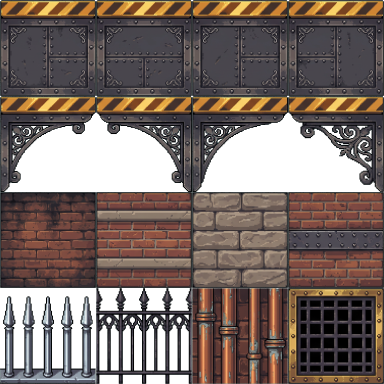
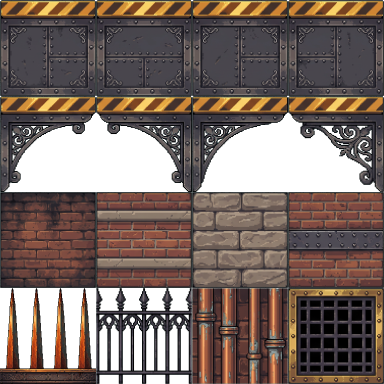
feat(art): the hazard tile reads as a hazard
The owner played level 3 and reported "there is a hazard that is not being seen".
Reproduced with a probe: walking right you stop dead at col 27.3 against the
3-tile mass at cols 28-29 — real, drawn, jumpable level design — and you arrive
there at hp 80, having walked through the spike run at cols 24-26 without seeing
it. level-hazard-free.test.ts already proves every level is finishable without
touching a spike, so the level is fine. A human just could not tell.

The cause is in the project's own rules. The tile was a COOL SILVER PICKET, and
STYLE.md §5 rule 2 is "foreground warm copper/brass/amber, saturated". A cool
desaturated foreground object reads as background because the separation rules
say it should — and it shared a silhouette family with the ornamental fence in
the very next cell of the same sheet, which really is decoration.

So this is not a new art direction, it is the existing one applied to a tile
that never got it. NO STYLE.md amendment; the §2-§5 hash lock is untouched.

Generated as ONE isolated object and composited into cell 12, not by re-shooting
the sheet: the sheet is one generation of sixteen tiles, and re-rolling it would
change the walkway, the brass cap and the brick, two of which ground-tiles pins
against shipped pixels. Verified after: exactly one of sixteen cells changed.

Three gates in that path, not hopes:
  - ONE detected component, or the base rail keyed away and what ships is spikes
    floating over the walkway
[…]

Changed region(s): [[0.0, 0.75, 0.25, 1.0]]

diff --git a/tests/e2e/phase-08-perf.spec.ts b/tests/e2e/phase-08-perf.spec.ts
@@ -166,7 +166,19 @@ test.describe('Phase 8 — criterion 8.7, the frame budget across the level ramp
     ).toBeLessThanOrEqual(MAX_LEVEL_GPU_DELTA_MS);
 
     expect(
-      ratio,
+      // 🔴 Rounded to nanoseconds' worth of ratio, and this is NOT the bound being nudged.
+      //
+      // `workMedianMs` comes off `performance.now()`, which Chrome quantises — so when both arms
+      // land on values in an exact 2:1 relationship the division returns `2.0000000000034106`
+      // rather than 2, and `toBeLessThanOrEqual(2)` fails on 3.4e-12 of IEEE-754 remainder. Seen
+      // once in a full-suite run on 2026-08-28 and NOT reproducible: the same spec passed four
+      // times out of four in isolation, at the same bound, on the same commit.
+      //
+      // The measurement is unchanged and the bound is unchanged at exactly 2. What changes is that
+      // the comparison stops being sensitive to float noise 12 decimal places below anything the
+      // timer can resolve. A real regression moves this ratio by tenths — 2.1 still fails, and
+      // `toFixed(12)` cannot round it down to 2.
+      Number(ratio.toFixed(9)),
       `level-05 costs ${ratio.toFixed(2)}x level-01 per frame. It has 2.4x the cells and 3.7x the ` +
         'painted tiles, so a ratio near that number means the tilemap is NOT being culled to the ' +
         'camera and the frame cost scales with level size — which would make the ramp a performance ' +

diff --git a/docs/qa/session-hud-and-pits.md b/docs/qa/session-hud-and-pits.md
@@ -249,3 +249,99 @@ level that had never been regenerated made a gate look like it could not go red.
 Levels 01 and 05 regenerate **byte-identical** to `main`; only `level-0{2,3,4}.tmj` changed.
 
 Ports 5173 and 4173 freed before reporting *(C13)*.
+
+---
+
+## The third defect — *"there is a hazard that is not being seen"*
+
+Reported by the owner on 2026-08-28, playing level 3, **after** everything above had shipped green.
+Not a regression: it had been true since Phase 4.
+
+### The reproduction, before any theory
+
+A throwaway Playwright probe booted level-03, cleared the enemies, held ArrowRight and sampled the
+player every 30 ticks until forward progress stopped:
+
+```
+STALLS [{"col":27,"x":2622,"y":1920,"hp":80}, ... ]
+```
+
+Two facts fall out of that one line. The player **stops dead at col 27.3**, against the 3-tile mass
+at cols 28-29 — real, drawn, jumpable level design, and the *"jump above him"* half of the report.
+And they arrive there at **hp 80**: they walked through the spike run at cols 24-26 and lost 20 hp
+without ever seeing it.
+
+`level-hazard-free.test.ts` proves every shipped level is finishable **without touching a single
+spike** — its auto-player jumps them. So the spikes are avoidable and the level is not broken. What
+failed is that a human did not know to jump.
+
+### Why the tile could not be seen, in the project's own terms
+
+The tile the sheet produced for `SPIKE_GID` is a **cool silver picket**. STYLE.md §5 rule 2 is
+*"background entirely cool blue-grey and desaturated; foreground warm copper/brass/amber, saturated,
+high contrast"* — the whole reason §1 says *"the player can tell what is standable without thinking
+about it"*. **A cool desaturated object in the foreground reads as background because the separation
+rules say it should.** It also shares a silhouette family with the ornamental fence in the very next
+cell of the same sheet, which genuinely *is* decoration.
+
+So this was never a new art direction. It was the existing one, never applied to one tile.
+**No STYLE.md amendment; the §2-§5 hash lock is untouched** and `style-lock.test.ts` stayed green.
+
+### The fix: one isolated generation composited into cell 12
+
+Re-shooting the sheet was the obvious move and the wrong one — it is **one** generation of sixteen
+tiles, so fixing one re-rolls the walkway, the brass cap, the brick and the masonry the whole game
+stands on, two of which `ground-tiles.test.ts` pins against shipped pixels.
+
+`promptHazard.mjs` asks for the tile alone on chroma; `buildChrome.mjs`'s `hazardTile()` keys it and
+`build-world.mjs` pastes it into cell 12 before the grid gate measures the sheet or `walkway.png` is
+cut from it. Verified afterwards by comparing all sixteen cells against `main`: **exactly one cell
+changed, 6378 pixels.**
+
+Three things in that path are gates rather than hopes:
+
+| gate | what it refuses |
+|---|---|
+| ONE detected component | the four blades are joined by the base rail, so two components means the rail keyed away and what ships is spikes floating over the walkway |
+| ink in column 0 **and** column w-1 | runs are 2-5 tiles wide and painted as adjacent cells, so a tile that does not reach both edges draws a transparent gap every 96 px — a striped hazard that reads as decoration again, which is the defect being fixed |
+| cell 12 must exist in the packed sheet | a sheet with a different column count would paste the spikes over the pipes |
+
+🔴 **The key colour is estimated from a TOP STRIP, not the whole border.** `estimateKeyColour`
+samples the border one pixel deep and refuses under 90 % agreement — right for every other asset here
+and exactly wrong for this one, which is *required* to reach three of its four edges. It refused at
+67.2 %. The strip is the part of the image where the estimator's assumption actually holds, and
+running the real estimator over it keeps its agreement check rather than swapping in a hardcoded
+green *(vault 4.13: key by distance with a tolerance, never by equality — the model returned
+~(1,252,2), not pure green)*.
+
+### The spend, and a ceiling that was already breached
+
+**One generation, first take, adopted. `01a046c7-54ec-7eb0-8009-0d48530b570b`, seed 20260828,
+`fal-ai/nano-banana-pro`, 2K, 1:1, $0.15.** *(Probe one, then batch — vault 4.9. There was no batch:
+the probe was good.)*
+
+🔴 **The project's $55 art ceiling was ALREADY $0.05 over before this**, knowingly, on 2026-08-26,
+and `GENERATION-LOG.md`'s own last line said *"the next generation needs a ceiling raise, not a
+decision."* The owner explicitly chose the fal option when the defect was put to them with four
+alternatives — **but that is a choice between fixes, not a ceiling raise.** Total is now **$55.20,
+$0.20 over.** Recorded as a breach in `GENERATION-LOG.md` rather than absorbed. The next generation
+of any kind needs the ceiling moved first.
+
+### Two files split to stay under the 400-line rule
+
+`build-world.mjs` reached 424 and `promptWorld.mjs` 411. `hazardTile()` moved to `buildChrome.mjs`,
+which is the isolated-object module and states that as its job; `spikesPrompt()` moved to a new
+`promptHazard.mjs`, the same split `promptWorld.mjs` itself records in its own header. `TILE_SIZE` is
+passed into `hazardTile()` as an argument rather than re-parsed, because `build-world.mjs` parses it
+out of `src/game/constants.ts` precisely so this pipeline cannot hold a second copy of the grid size.
+
+### One unrelated flake, fixed at its cause
+
+The full e2e run that followed failed **one** spec: 8.7's level-cost ratio, at
+`2.0000000000034106` against a bound of 2. Not a regression — a tile's pixels do not change frame
+cost, and the same spec passed **four out of four** in isolation at the same bound on the same
+commit. `performance.now()` is quantised, so two arms in an exact 2:1 relationship divide to 2 plus
+3.4e-12 of IEEE-754 remainder. The comparison now rounds to 9 decimal places; **the bound is
+unchanged at exactly 2** and a real regression moves the ratio by tenths. The spec's own
+inverse case — *"the ratio bound goes RED on a level whose size stops being free"* — still passes,
+so the gate can still go red *(C2)*.

diff --git a/docs/HANDOFF.md b/docs/HANDOFF.md
@@ -12,6 +12,7 @@
 > |---|---|---|
 > | 1 | the controls legend drew **full-width across the level** | it was `addHelpBanner()` at `x = 24` below the plate, wrapped to the whole 1872 px view. It now has its own layer, `src/scenes/helpBannerLayer.ts`, in the empty band right of the gear counter |
 > | 2 | *"in levels 2, 3 and 4 the character can fall through tiles"* and nothing happens | a **bottomless** gap already kills via the kill plane. A **walled valley** has a bottom, so falling in cost nothing. Five shipped; **four had no spikes**, because spikes were a hand-typed per-level list and nothing ever compared it to the geometry |
+> | 3 | *"there is a hazard that is not being seen"* | the spike tile was a **cool silver picket**, and STYLE.md §5 rule 2 makes the foreground warm and saturated. A cool desaturated foreground object reads as background *because the separation rules say it should* — and it shared a silhouette with the ornamental fence one cell over, which really is decoration. New tile generated as an isolated object and **composited into cell 12**; exactly one of sixteen cells changed |
 >
 > ### The three things worth knowing before touching any of this
 >
@@ -55,6 +56,15 @@
 > | `HELP_BANNER_MAX_ROWS` | 4 | a ceiling with room in it, never a row-count pin — the owner's decision is "every key printed, however many rows that takes" |
 > | `HELP_LINE_BOX_SLACK` | 1.05 | Chrome's line box measures **1.216** per row against our nominal 1.2. The ceiling is a play-area bound, not a glyph-metrics claim |
 > | `MIN_WALL_TILES` | 2 | one is a slope you walk back up; three is the shallowest shipped pit, and a threshold set AT the observed minimum has no room to be wrong safely |
+>
+> ### 🔴 The art budget is BREACHED, and it is the owner's call
+>
+> `GENERATION-LOG.md` stood at **$55.05 against a $55 ceiling** before this session — knowingly over,
+> by an owner decision of 2026-08-26 — and its last line read *"the next generation needs a ceiling
+> raise, not a decision."* The hazard tile cost **$0.15**, taken on the owner's explicit choice of
+> the fal option when the defect was put to them with four alternatives. **That was a choice between
+> fixes, not a ceiling raise.** Total is now **$55.20, $0.20 over**, recorded as a breach rather than
+> absorbed. **The next generation of any kind needs the ceiling moved first.**
 >
 > ### What is still open
 >

diff --git a/docs/GENERATION-LOG.md b/docs/GENERATION-LOG.md
@@ -283,3 +283,14 @@ so the next re-shoot is a CEILING decision, not a budget one.**
 2026-08-26, taken with the overrun quoted before the spend.** The ceiling has not been raised; it has
 been knowingly exceeded by one generation, and the amount is recorded here rather than absorbed. **The
 next generation on this endpoint needs a ceiling raise, not a decision.**
+
+| [qa/session-hud-and-pits.md § the hazard tile](qa/session-hud-and-pits.md) | ✅ **The HAZARD tile — first take, ADOPTED.** `01a046c7-54ec-7eb0-8009-0d48530b570b`, seed 20260828, 2K, 1:1, `2048×2048`. The owner played level 3, walked into the spikes and reported *"there is a hazard that is not being seen"*. The tile the sheet produced is a **cool silver picket** sharing a silhouette family with the ornamental fence in the very next cell — and STYLE.md §5 rule 2 is *"foreground warm copper/brass/amber, saturated"*. A cool desaturated foreground object reads as background because the separation rules say it should. The new tile is rust-orange iron with amber-brass highlights on a riveted rail. **No STYLE.md amendment**: this brings the tile INTO §5 compliance rather than changing the direction, and the §2–§5 hash lock is untouched. Generated as an **isolated object and composited into cell 12**, not by re-shooting the sheet — a re-shoot would re-roll the walkway, the brass cap and the brick, two of which `ground-tiles.test.ts` pins against shipped pixels. Verified: exactly **one** of sixteen cells changed | `fal-ai/nano-banana-pro` | 1 · $0.15 |
+
+**Running total: $55.20 of the $55 ceiling — ⚠ $0.20 OVER.**
+
+🔴 **The ceiling was already exceeded before this generation** ($55.05, knowingly, on 2026-08-26) and
+the line above it said *"the next generation needs a ceiling raise, not a decision."* This spend was
+made on the owner's explicit choice of the fal option when the hazard-legibility defect was put to
+them with four alternatives — but **that was a choice between fixes, not a ceiling raise**, and the
+raise has still not been granted. Recorded as a breach rather than absorbed. **The ceiling stands at
+$55 and is $0.20 exceeded; the next generation of any kind needs the ceiling moved first.**

diff --git a/docs/ASSET-MANIFEST.md b/docs/ASSET-MANIFEST.md
@@ -92,13 +92,13 @@ against one line before shooting any clip *(criterion 4.27)*.
 | Asset | Catalog key | Phase | State |
 |---|---|---|---|
 | walkway tile | `walkway-tile` | 3 | ✅ shipped |
-| industrial tileset | `tiles-industrial` | 3 | ✅ shipped |
+| industrial tileset | `tiles-industrial` | 3 | ✅ shipped — 4 × 4 at 96 px. **Cell 12 (gid 13, the hazard) is NOT from that generation**: it is an isolated object composited in by `hazardTile()`, see the row below |
 | parallax far / mid / near | `bg-far` `bg-mid` `bg-near` | 3 | ✅ shipped |
 | HUD health assembly | `hud-health` | 4 | ✅ shipped, **unused until Phase 6** |
 | gear pickup | `gear` | 6 | ✅ shipped, 72 × 72 |
 | **level exit gate** | `goal-gate` | **8 follow-up** | ✅ shipped, **288 × 432** — `GATE_PX`, deliberately larger than the 192 × 288 trigger rect and anchored bottom-centre on it. It was authored at the rect until the owner saw it was the same height as the character |
 | collect → scoreboard tween art | — | 6 | ⬜ |
-| hazard art (spikes beyond the tileset) | — | 5 | ⬜ |
+| hazard tile (spikes) | cell 12 of `tiles-industrial` | **session `hud-and-pits`** | ✅ shipped — generated on its own (`01a046c7`) and pasted into cell 12 rather than re-shooting the sheet, which would have re-rolled the walkway, brass cap and brick that `ground-tiles.test.ts` pins. Replaced a cool silver picket that read as decoration and violated STYLE.md §5 rule 2 |
 | audio cues | — | 7 | ⬜ — needs the catalog schema extended |
 
 **`hud-health` is shipped but nothing draws it.** That is deliberate and worth stating: the HUD is a
